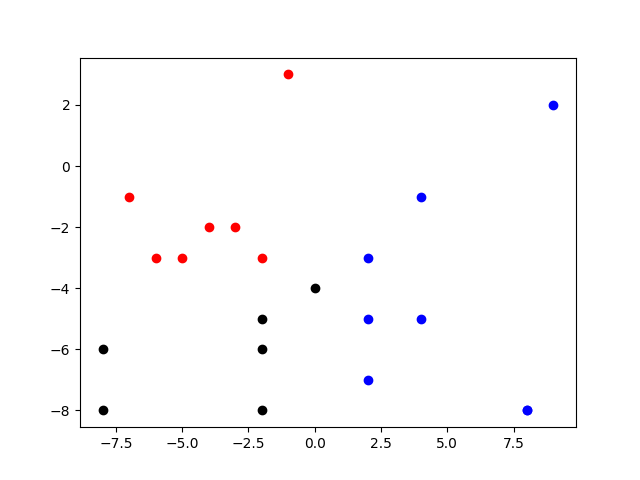
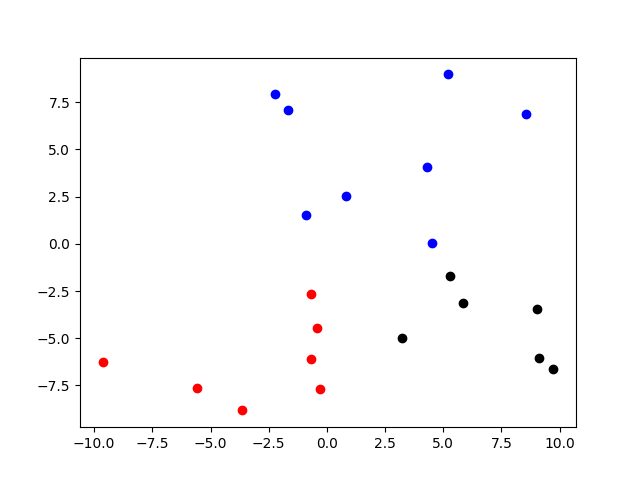
Format timedelta

diff --git a/main.py b/main.py
@@ -9,9 +9,10 @@ import openpyxl
 import random
 import math
 import numpy as np
-import time
+# import time
 import matplotlib.pyplot as plt
 import networkx as nx
+from datetime import datetime, timedelta
 
 
 def divide_list_of_children_by_k_means(k):
@@ -21,8 +22,8 @@ def divide_list_of_children_by_k_means(k):
     for i in gv.point_list:
         children_coordinates.append(list(i))
     children_coordinates.remove([0, 0])
-    clusters = k_means(children_coordinates, k)
-    for i in clusters:
+    gv.clusters = k_means(children_coordinates, k)
+    for i in gv.clusters:
         for j in i:
             (x1, y1) = j
             index = gv.point_list.index((x1, y1))
@@ -66,18 +67,12 @@ def permutation(lst):
     return l
 
 
-# Break a list into chunks of size N
-def divide_chunks(l, n):
-    # looping till length l
-    for i in range(0, len(l), n):
-        yield l[i:i + n]
-
-
 # Enter a random point to address column in Child table
 def enter_random_point(number, data_file):
     for t in range(number):
         temp = "D" + str(t + 2)
-        (number_row, y) = random.randrange(-10, 10), random.randrange(-10, 10)
+        (number_row, y) = random.uniform(-10, 10), random.uniform(-10, 10)
+        (number_row, y) = (round(number_row, 2), round(y, 2))
         child_sheet[temp] = str(number_row) + ',' + str(y)
 
     # Increases the  child table
@@ -124,17 +119,14 @@ def print_matrix_to_excel():
 
 # Creates an excel file for each group
 # that contains the travel path, cost and travel time
-def print_to_excel_time_cost_per_group(lst, car, cost, time, spath="myPath", sschool="mySchool", timeOfStart=700):
+def print_to_excel_time_cost_per_group(lst, car, cost, time, spath="myPath", sschool="mySchool",
+                                       timeOfStart=timedelta(hours=7)):
     # create workbook
     wb = openpyxl.Workbook()
     # get worksheet
     ws = wb.active
     # # change sheet name
     # ws.title = "Group" + str(sheet_number)
-
-    # list_of_all_children = []
-    # list_of_cars = []
-    # list_of_school = []
 
     irow = 1
     tab = ws.cell(row=irow, column=1)
@@ -168,13 +160,12 @@ def print_to_excel_time_cost_per_group(lst, car, cost, time, spath="myPath", ssc
         if t > 0:
             iInMatrix = lst[t - 1].id
             jInMatrix = lst[t].id
-            # print(str(iInMatrix) + "," + str(jInMatrix))
-            currentTime = currentTime + gv.time_matrix[iInMatrix][jInMatrix]
+            temp_time = gv.time_matrix[iInMatrix][jInMatrix]
+            currentTime = currentTime + timedelta(minutes=temp_time)
         irow = irow + 1
         tab = ws.cell(row=irow, column=1)
         tab.value = str(t)
         tab = ws.cell(row=irow, column=2)
-        # tab.value = str(lst[t])
         tab.value = str(lst[t].id)
         tab = ws.cell(row=irow, column=3)
         tab.value = lst[t].first_name
@@ -188,20 +179,19 @@ def print_to_excel_time_cost_per_group(lst, car, cost, time, spath="myPath", ssc
         tab.value = str(currentTime)
     iInMatrix = lst[len(lst) - 1].id
     jInMatrix = len(gv.list_of_all_children)
-    # print(str(iInMatrix) + "," + str(jInMatrix))
-    currentTime = currentTime + gv.time_matrix[iInMatrix][jInMatrix]
+    temp_time = gv.time_matrix[iInMatrix][jInMatrix]
+    currentTime = currentTime + timedelta(minutes=temp_time)
     irow = irow + 1
     tab = ws.cell(row=irow, column=1)
     tab.value = "school"
     tab = ws.cell(row=irow, column=2)
-    # tab.value = str(lst[t])
     tab.value = str(gv.list_of_school[0].id)
     tab = ws.cell(row=irow, column=3)
     tab.value = gv.list_of_school[0].name
     tab = ws.cell(row=irow, column=4)
     tab.value = sschool
     tab = ws.cell(row=irow, column=5)
-    # tab.value = gv.list_of_school[0].address
+    tab.value = gv.list_of_school[0].address
     tab = ws.cell(row=irow, column=6)
     tab.value = gv.list_of_school[0].contacts
     tab = ws.cell(row=irow, column=7)
@@ -236,8 +226,6 @@ def calculate_time_cost_per_group(list_of_children, car, school_address):
     total_time_temp_perm = 0
     length = len(list_of_children)
     short_path = []
-    timesBest = []
-    addressesBest = []
     flag = 0
     for temp_list_of_children in permutation(list_of_children):
         times = []
@@ -266,28 +254,25 @@ def calculate_time_cost_per_group(list_of_children, car, school_address):
             short_path = temp_list_of_children
             total_time = total_time_temp_perm
             total_cost = total_cost_temp_perm
-            timesBest = times
-            addressesBest = addresses
         total_cost_temp_perm = car.driver_cost
         total_time_temp_perm = 0
 
     print('group:' + str(gv.file_number))
-    # print(str(timesBest))
-    # print(str(addressesBest))
+
     print_to_excel_time_cost_per_group(short_path, car, total_cost, total_time)
 
     list_of_address_in_short_path = []
     for child in short_path:
         (x, y) = child.address.split(',')
-        (x, y) = (int(x), int(y))
+        (x, y) = (float(x), float(y))
         list_of_address_in_short_path.append((x, y))
 
     G = nx.Graph()
     length = len(list_of_address_in_short_path)
     for i in range(length):
         G.add_node(i, pos=list_of_address_in_short_path[i])
-    for i in range(length-1):
-        G.add_edge(i, i+1)
+    for i in range(length - 1):
+        G.add_edge(i, i + 1)
     pos = nx.get_node_attributes(G, 'pos')
     nx.draw(G, pos)
     plt.savefig('G' + str(gv.file_number) + '.png')
@@ -296,7 +281,7 @@ def calculate_time_cost_per_group(list_of_children, car, school_address):
 
 
 # starting time
-start = time.time()
+start = datetime.now()
 
 # Using openpyxl to writing to excel file
 # Give the location of the file
@@ -334,48 +319,33 @@ for number_row in range(2, 3):
 # Enter the school's address to the matrix
 temp_point = gv.list_of_school[0].address
 (x1, y1) = temp_point.split(',')
-(x1, y1) = (int(x1), int(y1))
+(x1, y1) = (float(x1), float(y1))
 gv.point_list.insert(0, (x1, y1))
 
 # Enter the children's address to the list
 for number_row in range(0, number_of_children):
     temp_point = gv.list_of_all_children[number_row].address
     (x1, y1) = temp_point.split(',')
-    (x1, y1) = (int(x1), int(y1))
+    (x1, y1) = (float(x1), float(y1))
     gv.point_list.insert(number_row, (x1, y1))
 
 # Matrix 22X22, this matrix will contain all the time travel from point A (row0) to point B (column0)
 gv.time_matrix = np.zeros((number_of_children + 1, number_of_children + 1))
 
 length = len(gv.list_of_all_children)
-# Enter all the time travel gv.time_matrix=[i,j], i=idCh1, j=idCh2, i,j=0..n, n=school for i in range(length): for
-# number_row in range(0, number_of_children + 1): gv.time_matrix[number_row, i] = Child.calculate_euclidean_dist(
-# gv.list_of_all_children[i],                                                                       gv.point_list[
-# number_row])
+
 for i in range(length + 1):
     for j in range(length + 1):
         gv.time_matrix[i, j] = math.ceil(calculate_euclidean_dist(gv.point_list[i], gv.point_list[j]))
 print_matrix_to_excel()
 
 # print(gv.point_list)
-# divide_list_of_children = list(divide_chunks(gv.list_of_all_children, int(number_of_children / 3)))
+
 divide_list_of_children = divide_list_of_children_by_k_means(3)
 
-list_of_address_in_cluster = []
-list_of_cluster = []
-temp_list = []
-for cluster in divide_list_of_children:
-    for child in cluster:
-        (x, y) = child.address.split(',')
-        (x, y) = (int(x), int(y))
-        list_of_address_in_cluster.append((x, y))
-    temp_list = list_of_address_in_cluster.copy()
-    list_of_cluster.append(temp_list)
-    list_of_address_in_cluster.clear()
-
-plt.scatter(*zip(*list_of_cluster[0]), color='black')
-plt.scatter(*zip(*list_of_cluster[1]), color='blue')
-plt.scatter(*zip(*list_of_cluster[2]), color='red')
+plt.scatter(*zip(*gv.clusters[0]), color='black')
+plt.scatter(*zip(*gv.clusters[1]), color='blue')
+plt.scatter(*zip(*gv.clusters[2]), color='red')
 
 plt.savefig('cluster.png')
 plt.clf()
@@ -386,7 +356,7 @@ for i in range(length):
     calculate_time_cost_per_group(divide_list_of_children[i], gv.list_of_cars[i], gv.list_of_school[0].address)
 
 # end time
-end = time.time()
+end = datetime.now()
 
 # total time taken
 print(f"Runtime of the program is {end - start}")

diff --git a/clCar.py b/clCar.py
@@ -53,9 +53,9 @@ class Car:
 # Finding the time travel from starting point to ending point in the time matrix
 def find_time_travel_in_matrix(start_point, end_point):
     (x1, y1) = start_point.split(',')
-    (x1, y1) = (int(x1), int(y1))
+    (x1, y1) = (float(x1), float(y1))
     (x2, y2) = end_point.split(',')
-    (x2, y2) = (int(x2), int(y2))
+    (x2, y2) = (float(x2), float(y2))
     number_in_a_row = gv.point_list.index((x1, y1))
     number_in_a_col = gv.point_list.index((x2, y2))
     return gv.time_matrix[number_in_a_row][number_in_a_col]

diff --git a/clHuman.py b/clHuman.py
@@ -48,15 +48,6 @@ class Child(Human):
 
         Child.num_of_children += 1
 
-    # Calculation of Euclidean distance ("time travel")
-    def calculate_euclidean_dist(self, destination):
-        temp_point = self.address
-        (x_1, y_1) = temp_point.split(',')
-        (x_1, y_1) = (int(x_1), int(y_1))
-        (x_2, y_2) = destination
-        temp_var = (x_1 - x_2) ** 2 + (y_1 - y_2) ** 2
-        return math.sqrt(temp_var) * random.uniform(1, 1.5)
-
 
 class Accompanier(Human):
     number_of_accompaniers = 0

diff --git a/global_variables.py b/global_variables.py
@@ -10,3 +10,6 @@ list_of_school = []
 point_list = []
 
 file_number = 0
+
+# Contain all the clusters k_means return
+clusters = []
